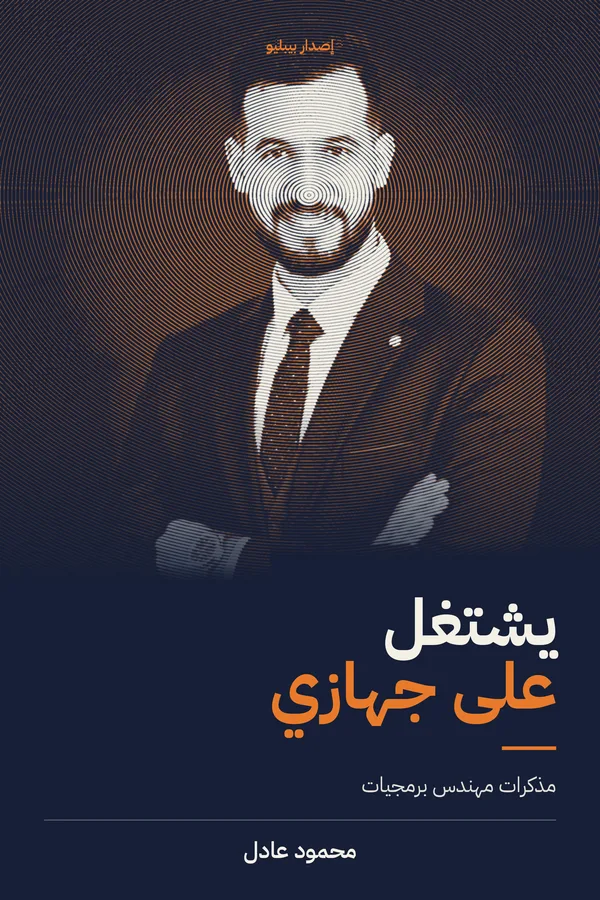
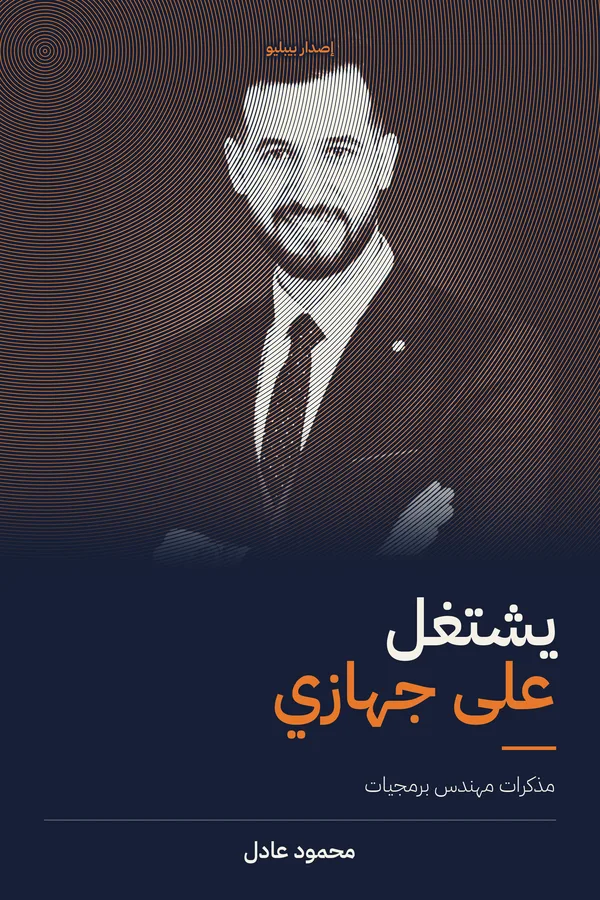
Final covers for the featured original book, with larger variants

diff --git a/src/public/Cards.tsx b/src/public/Cards.tsx
@@ -46,7 +46,9 @@ export function Cover({
   const [failed, setFailed] = useState(false);
   const a = book.authors[0];
   const author = a ? (lang === 'ar' && a.name_ar ? a.name_ar : a.name) : undefined;
-  const src = lang === 'ar' && book.cover_url_ar ? book.cover_url_ar : book.cover_url;
+  const base = lang === 'ar' && book.cover_url_ar ? book.cover_url_ar : book.cover_url;
+  // Larger variant for the hero and book page when we host one.
+  const src = base && eager && base.startsWith('/covers/') ? base.replace('.webp', '-lg.webp') : base;
   if (!src || failed) return <FallbackCover title={book.title} author={author} />;
   return (
     <img
